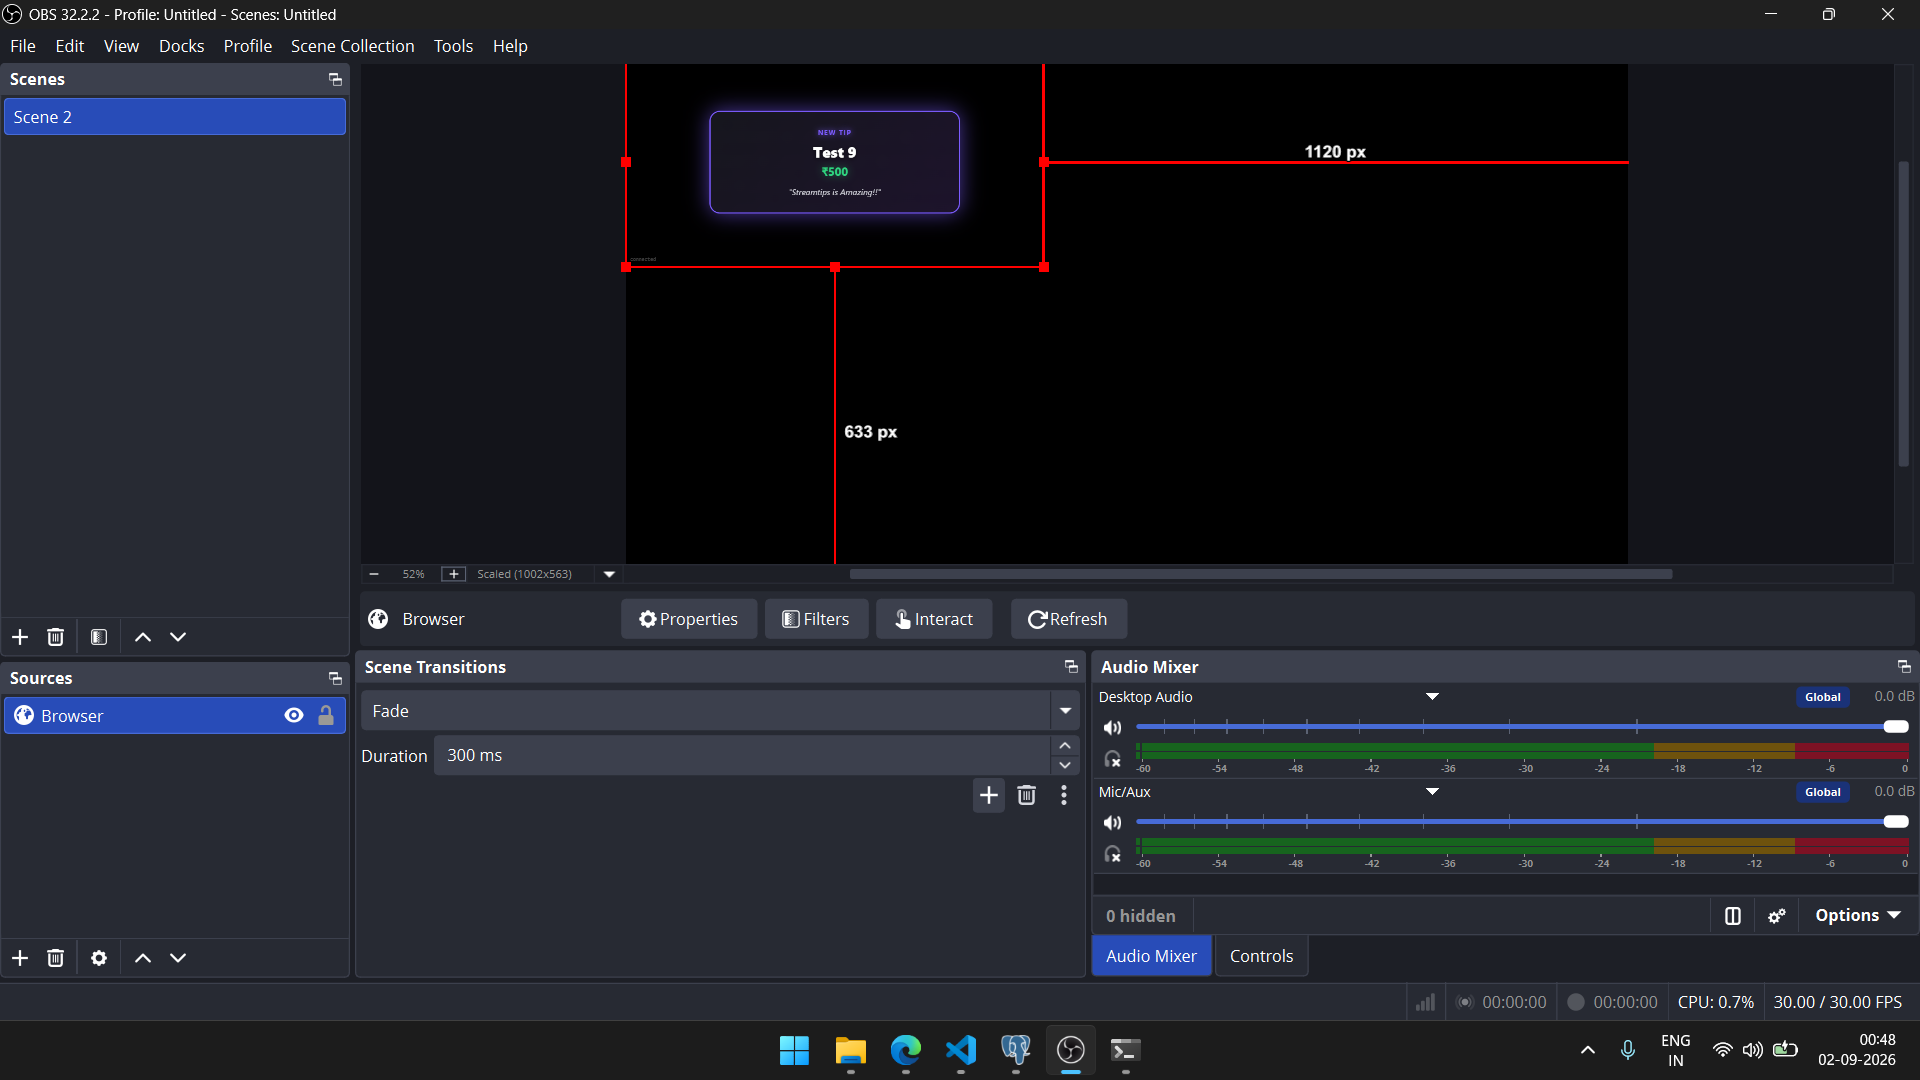
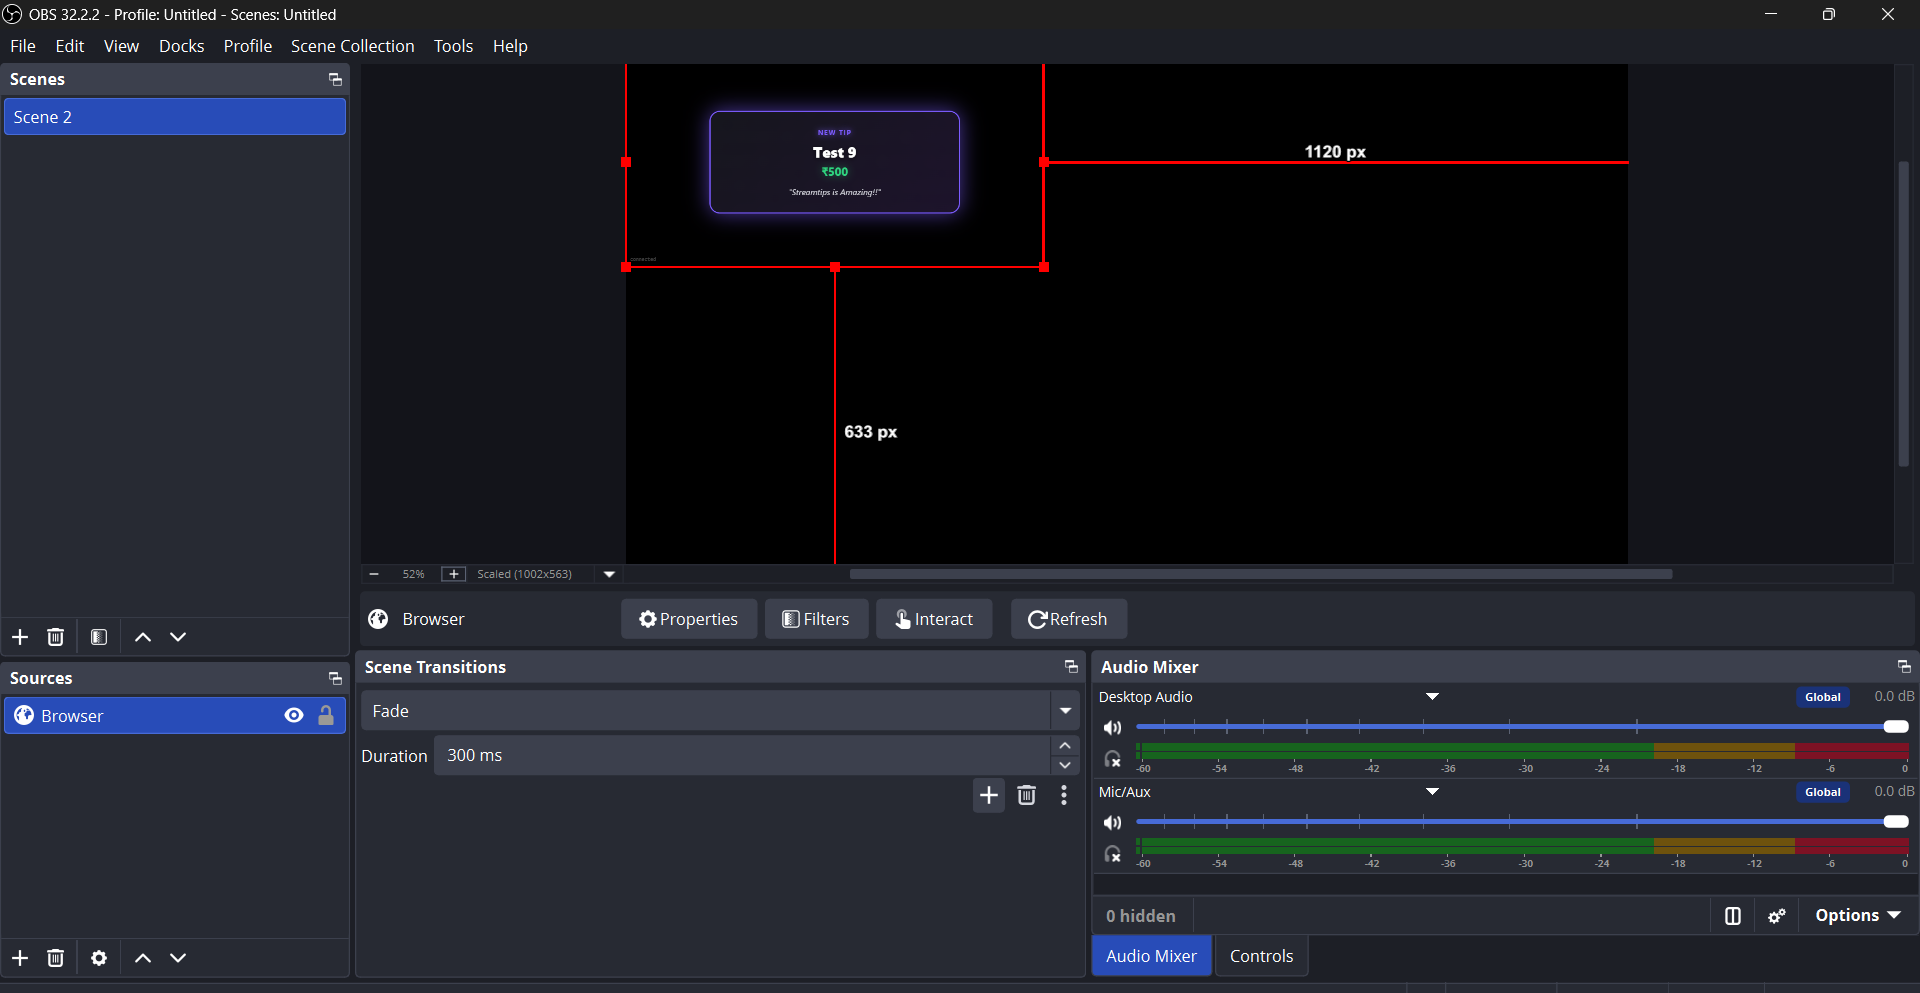
refactor: clean up code

diff --git a/app/routers/webhooks.py b/app/routers/webhooks.py
@@ -1,4 +1,5 @@
 import logging
+from typing import Any
 
 from fastapi import APIRouter, Depends, Request, HTTPException, status
 from sqlalchemy.exc import IntegrityError
@@ -13,22 +14,24 @@ logger = logging.getLogger("streamtips.webhooks")
 
 router = APIRouter(prefix="/webhooks", tags=["webhooks"])
 
+PAYMENT_CAPTURED = "payment.captured"
+
 
 @router.post("/razorpay", status_code=status.HTTP_200_OK)
-async def razorpay_webhook(request: Request, db: Session = Depends(get_db)):
+async def razorpay_webhook(request: Request, db: Session = Depends(get_db)) -> dict:
     """
-    This endpoint is the ONLY place a tip can move from 'pending' to
-    'success'. Nothing the client says anywhere else in the API can do
-    that — see POST /tips, which only ever creates 'pending' rows.
+    The only endpoint that can move a tip from 'pending' to 'success'.
+    POST /tips never does this — it only ever creates 'pending' rows.
 
-    Order of operations matters here:
-      1. Read raw bytes (signature is computed over the exact raw body —
-         parsing to JSON first and re-serializing would break verification
-         if key order or whitespace differs even slightly).
-      2. Verify signature BEFORE trusting any content of the payload.
-      3. Check idempotency (has this event_id been processed before)
-         via a DB unique constraint, not just an in-memory/app check.
-      4. Only then touch the tip row.
+    Order of operations is deliberate:
+      1. Read the raw request body and verify its HMAC-SHA256 signature
+         before trusting any content. Signing covers the exact raw
+         bytes, so parsing to JSON first and re-serializing later could
+         silently break verification.
+      2. Enforce idempotency via a DB unique constraint on event_id,
+         not an in-memory or purely application-level check, so it
+         holds up under concurrent duplicate deliveries.
+      3. Only then update the tip and broadcast to the overlay.
     """
     raw_body = await request.body()
     signature = request.headers.get("X-Razorpay-Signature")
@@ -45,37 +48,22 @@ async def razorpay_webhook(request: Request, db: Session = Depends(get_db)):
     event_type = payload.get("event", "unknown")
 
     if not event_id:
-        # Razorpay always sends one of these; if truly absent, reject rather
-        # than silently process an event we can't dedupe.
+        # Razorpay always sends one of these; if it's genuinely absent,
+        # reject rather than silently process an event we can't dedupe.
         raise HTTPException(
             status_code=status.HTTP_400_BAD_REQUEST,
             detail="Missing event id",
         )
 
-    # --- Idempotency gate ---
-    # Try to insert the event row first. The unique constraint on
-    # event_id is the actual guarantee here: even under concurrent
-    # duplicate deliveries (Razorpay does retry webhooks), only one
-    # request can win this insert. The other gets IntegrityError and
-    # we treat it as "already handled" — no tip mutation happens twice.
-    event_row = WebhookEvent(event_id=event_id, event_type=event_type, processed=False)
-    db.add(event_row)
-    try:
-        db.flush()
-    except IntegrityError:
-        db.rollback()
+    if not _record_event_once(db, event_id, event_type):
         logger.info(f"Duplicate webhook event ignored: {event_id}")
         return {"status": "already_processed"}
 
-    # Only handle the event type we actually care about for V1.
-    if event_type != "payment.captured":
-        db.commit()  # still record we saw it, just nothing to do
+    if event_type != PAYMENT_CAPTURED:
+        db.commit()  # event recorded, nothing further to do for this type
         return {"status": "ignored", "event_type": event_type}
 
-    payment_entity = payload.get("payload", {}).get("payment", {}).get("entity", {})
-    order_id = payment_entity.get("order_id")
-    payment_id = payment_entity.get("id")
-
+    order_id, payment_id = _extract_payment_ids(payload)
     if not order_id or not payment_id:
         db.rollback()
         raise HTTPException(
@@ -85,41 +73,71 @@ async def razorpay_webhook(request: Request, db: Session = Depends(get_db)):
 
     tip = db.query(Tip).filter(Tip.payment_order_id == order_id).first()
     if tip is None:
-        # Event references an order we have no record of. Log and store
-        # the webhook_event as processed=False evidence, but don't error
-        # loudly back to Razorpay — 200 so it doesn't retry forever.
+        # Unknown order — log and acknowledge with 200 so Razorpay
+        # doesn't retry indefinitely for an order we'll never find.
         logger.error(f"Webhook for unknown order_id: {order_id}")
         db.commit()
         return {"status": "unknown_order"}
 
     if tip.status == TipStatus.success:
-        # Belt-and-suspenders: even if somehow two different event_ids
-        # referenced the same order, don't double-apply success.
-        event_row.processed = True
+        # Defense in depth: even if two different event_ids somehow
+        # referenced the same order, never re-apply success.
         db.commit()
         return {"status": "already_success"}
 
     tip.status = TipStatus.success
     tip.payment_id = payment_id
-    event_row.processed = True
+    db.query(WebhookEvent).filter(WebhookEvent.event_id == event_id).update({"processed": True})
     db.commit()
 
-    # Broadcast to the OBS overlay, if one is currently connected.
-    # Deliberately happens AFTER commit — the DB write is the source of
-    # truth regardless of whether anyone was watching live. If the
-    # overlay was offline, the tip is still recorded as successful;
-    # it just won't show a live alert. No retry/queue for missed
-    # alerts in V1 — that's an acceptable, documented scope cut.
-    creator = db.query(User).filter(User.id == tip.user_id).first()
-    if creator:
-        await manager.send_to_overlay(
-            creator.overlay_token,
-            {
-                "type": "TIP",
-                "name": tip.payer_name,
-                "amount": float(tip.amount),
-                "message": tip.message,
-            },
-        )
+    await _broadcast_tip(db, tip)
 
     return {"status": "processed", "tip_id": str(tip.id)}
+
+
+def _record_event_once(db: Session, event_id: str, event_type: str) -> bool:
+    """
+    Attempts to insert a WebhookEvent row with processed=False. Returns
+    False if event_id already exists (duplicate delivery), True if this
+    is the first time we've seen it. The unique constraint on event_id
+    is what makes this safe under concurrent requests, not this
+    function alone. Callers should flip `processed` to True once the
+    event has actually been acted on.
+    """
+    db.add(WebhookEvent(event_id=event_id, event_type=event_type, processed=False))
+    try:
+        db.flush()
+        return True
+    except IntegrityError:
+        db.rollback()
+        return False
+
+
+def _extract_payment_ids(payload: dict[str, Any]) -> tuple[str | None, str | None]:
+    """Pulls order_id and payment_id out of a Razorpay payment.captured payload."""
+    entity = payload.get("payload", {}).get("payment", {}).get("entity", {})
+    return entity.get("order_id"), entity.get("id")
+
+
+async def _broadcast_tip(db: Session, tip: Tip) -> None:
+    """
+    Pushes the tip to the creator's OBS overlay over WebSocket, if one
+    is currently connected. Runs after the DB commit — the database is
+    the source of truth regardless of whether anyone was watching live.
+    A tip made while the overlay is offline is still recorded as
+    successful; it just won't produce a live alert. There's no
+    retry/queue for missed alerts in V1 — an accepted, documented cut.
+    """
+    creator = db.query(User).filter(User.id == tip.user_id).first()
+    if creator is None:
+        return
+
+    await manager.send_to_overlay(
+        creator.overlay_token,
+        {
+            "type": "TIP",
+            "name": tip.payer_name,
+            "amount": float(tip.amount),
+            "message": tip.message,
+        },
+    )

diff --git a/app/core/config.py b/app/core/config.py
@@ -10,7 +10,7 @@ class Settings(BaseSettings):
     JWT_ALGORITHM: str = "HS256"
     JWT_EXPIRE_MINUTES: int = 60 * 24 * 7  # 7 days
 
-    # Razorpay (Day 2)
+    # Razorpay
     RAZORPAY_KEY_ID: str = ""
     RAZORPAY_KEY_SECRET: str = ""
     RAZORPAY_WEBHOOK_SECRET: str = ""

diff --git a/app/core/database.py b/app/core/database.py
@@ -10,7 +10,6 @@ Base = declarative_base()
 
 
 def get_db():
-    """FastAPI dependency — yields a DB session and always closes it."""
     db = SessionLocal()
     try:
         yield db

diff --git a/README.md b/README.md
@@ -1,44 +1,75 @@
 # StreamTips
 
-A real-time tipping platform for livestreamers. A viewer pays through Razorpay, the payment is confirmed by a signature-verified webhook, and an animated alert appears live inside the creator's OBS stream within seconds.
+Real-time tipping platform for livestreamers. A viewer pays via Razorpay; once payment is confirmed by a signature-verified webhook, an alert renders live inside the creator's OBS stream.
 
-![StreamTips alert live in OBS](docs/obs-demo.png)
+## Demo
 
-## How it works
+Tip page and live OBS overlay, side by side:
 
+<p float="left">
+  <img src="docs/tip-page.png" width="46%" />
+  <img src="docs/obs-demo.png" width="50%" />
+</p>
+
+## Architecture
+
+```text
+Viewer
+  │
+  │ POST /tips
+  ▼
+FastAPI ───────────────► Razorpay
+  │                         │
+  │ tip: pending             │ payment.captured
+  │                         ▼
+  │ ◄──────────── signed webhook (raw body + HMAC-SHA256)
+  │
+  ├── verify signature
+  ├── insert event_id (unique constraint → idempotency)
+  ├── tip: pending → success
+  │
+  └──────── WebSocket ─────► OBS Browser Source
+                              (subscribed via overlay_token)
 ```
-Creator signs up (JWT) → gets a public tip page and a private OBS overlay link
 
-Viewer opens the tip page → enters name, message, amount → pays via Razorpay
-        │
-        ▼
-Razorpay confirms payment → sends a signed webhook event
-        │
-        ▼
-Backend verifies the HMAC-SHA256 signature on the raw request body
-        │
-        ▼
-Checks the event hasn't been processed before (DB-enforced idempotency)
-        │
-        ▼
-Tip status flips from "pending" to "success" in PostgreSQL
-        │
-        ▼
-Event is pushed over WebSocket to the creator's connected OBS overlay
-        │
-        ▼
-🎉 Alert renders live on stream
-```
-
-**The core design decision:** a tip can only ever be marked successful by a verified webhook event — never by the client. `POST /tips` only ever creates a `pending` row. This closes the obvious attack of a viewer calling the API directly to fake a large donation without paying.
+**Design constraint:** the client can initiate a payment but cannot declare it successful. `POST /tips` only ever writes a `pending` row. The `pending → success` transition happens in exactly one place — the webhook handler, after signature verification — so there is no client-reachable path to fabricate a paid tip.
 
 ## Stack
 
-- **Backend:** FastAPI, PostgreSQL, SQLAlchemy, Alembic
-- **Auth:** JWT + bcrypt
-- **Payments:** Razorpay (order creation, signed webhooks)
-- **Real-time:** native FastAPI WebSockets
-- **Overlay:** plain HTML/CSS/JS, rendered as an OBS Browser Source
+| Layer | Choice |
+|---|---|
+| API | FastAPI, Pydantic |
+| Database | PostgreSQL, SQLAlchemy, Alembic |
+| Auth | JWT, bcrypt |
+| Payments | Razorpay Orders API + HMAC-SHA256 webhook verification |
+| Real-time | Native WebSockets (single-process, in-memory connection registry) |
+| Overlay | HTML/CSS/JS served as an OBS Browser Source |
+
+## API surface
+
+| Method | Path | Auth | Purpose |
+|---|---|---|---|
+| POST | `/auth/signup` | — | Create creator account, returns JWT |
+| POST | `/auth/login` | — | Issue JWT |
+| GET / PATCH | `/users/me` | JWT | Read/update own profile |
+| GET | `/users/me/overlay` | JWT | Fetch private `overlay_token` |
+| GET | `/creators/{username}` | — | Public creator lookup (tip page) |
+| POST | `/tips` | — | Create Razorpay order + `pending` tip |
+| POST | `/webhooks/razorpay` | signature | Verify payment, flip tip to `success`, broadcast |
+| WS | `/ws/overlay/{overlay_token}` | token | OBS overlay subscribes to tip events |
+
+## Security
+
+| Risk | Mitigation |
+|---|---|
+| Client-forged payment success | Only the webhook handler can set `status = success`; verified via HMAC-SHA256 against the raw request body |
+| Duplicate webhook delivery | Unique constraint on `webhook_events.event_id` — a second insert fails at the database level, not just in application logic |
+| Overlay URL guessing | 64-character random `overlay_token`, independent of username/id, validated before the WebSocket connection is accepted |
+| XSS via tip message | Viewer-submitted `payer_name` / `message` are HTML-escaped before being rendered in the overlay |
+| Login user enumeration | Identical error/status for unknown email vs. wrong password |
+| OBS disconnect mid-stream | Overlay retries the WebSocket connection on a fixed delay, no manual refresh required |
+
+Idempotency, signature verification, reconnection, and the forged-payment path have each been manually tested, including duplicate webhook resends and concurrent tip submissions.
 
 ## Setup
 
@@ -48,9 +79,9 @@ source venv/bin/activate
 pip install -r requirements.txt
 
 cp .env.example .env
-# fill in DATABASE_URL, JWT_SECRET_KEY, RAZORPAY_KEY_ID, RAZORPAY_KEY_SECRET
+# set DATABASE_URL, JWT_SECRET_KEY, RAZORPAY_KEY_ID, RAZORPAY_KEY_SECRET
 
-# create the database first: CREATE DATABASE streamtips;
+# CREATE DATABASE streamtips;  (in psql)
 alembic upgrade head
 
 uvicorn app.main:app --reload
@@ -58,66 +89,30 @@ uvicorn app.main:app --reload
 
 API docs: `http://localhost:8000/docs`
 
-### Testing the full flow
+### End-to-end test
 
-1. Sign up a creator via `/docs` (`POST /auth/signup`).
-2. Open `frontend/tip.html?creator=<username>` and send a test tip (use [Razorpay's test card numbers](https://razorpay.com/docs/payments/payments/test-card-upi-details/)).
-3. Since Razorpay can't reach `localhost` directly, tunnel your server with `ngrok http 8000` and register `https://<ngrok-url>/webhooks/razorpay` in the Razorpay Dashboard under Webhooks (event: `payment.captured`).
-4. Get your overlay token from `GET /users/me/overlay`, open `frontend/overlay.html?token=<token>` as an OBS Browser Source (or in a plain browser tab to preview), and watch the alert fire when the webhook lands.
-
-## Security & reliability
-
-| Concern | How it's handled |
-|---|---|
-| Faking a successful payment | Only the signature-verified webhook can set a tip to `success` — no client-reachable endpoint does |
-| Duplicate webhook delivery | Unique DB constraint on `webhook_events.event_id`; a duplicate insert fails and is ignored |
-| Tampered webhook payload | HMAC-SHA256 signature checked against the raw request body before anything is trusted |
-| Guessing another creator's overlay | 64-char random `overlay_token`, unrelated to username/id, validated before the WebSocket connection is even accepted |
-| XSS via tip messages | Viewer-submitted text is HTML-escaped before being rendered in the overlay |
-| OBS disconnecting mid-stream | Overlay auto-reconnects on a fixed retry delay, no manual refresh needed |
-
-All of the above were manually tested, including duplicate-webhook resends, concurrent tips, invalid input, and direct attempts to bypass payment verification.
+1. `POST /auth/signup` via `/docs` to create a creator.
+2. Open `frontend/tip.html?creator=<username>`, submit a tip using [Razorpay's test card numbers](https://razorpay.com/docs/payments/payments/test-card-upi-details/).
+3. Razorpay cannot reach `localhost` directly — tunnel with `ngrok http 8000` and register `https://<ngrok-url>/webhooks/razorpay` under Razorpay Dashboard → Webhooks (event: `payment.captured`).
+4. Fetch `overlay_token` from `GET /users/me/overlay`, open `frontend/overlay.html?token=<token>` as an OBS Browser Source, and confirm the alert renders when the webhook is processed.
 
 ## Scope
 
-**In V1:** JWT auth, creator profiles, Razorpay order + webhook + idempotency, real-time WebSocket alerts, secure OBS overlay tokens.
+**Implemented:** JWT auth, creator profiles, Razorpay order creation, webhook verification + idempotency, WebSocket delivery, OBS overlay with reconnection.
 
-**Deliberately out of V1:** Redis (no horizontal scaling needed yet), TTS, leaderboards, donation goals, custom themes/sounds, third-party stream integrations. See the code comments in `app/services/connection_manager.py` for the reasoning on the Redis cut specifically.
+**Deliberately excluded:** Redis (no multi-instance WebSocket fan-out required at current scale — see comments in `app/services/connection_manager.py`), TTS, leaderboards, donation goals, custom themes, third-party stream-platform integrations, cloud deployment.
 
 ## Project structure
 
 ```
 app/
-├── core/         # config, database, security, auth dependency
+├── core/         # config, database session, JWT/password hashing, auth dependency
 ├── models/       # users, tips, webhook_events
-├── schemas/      # request/response validation
+├── schemas/      # Pydantic request/response models
 ├── routers/      # auth, users, public, tips, webhooks, websocket
-└── services/     # razorpay client, websocket connection manager
+└── services/     # Razorpay client, WebSocket connection manager
 frontend/
-├── tip.html      # public viewer-facing tip page
+├── tip.html      # viewer-facing tip page
 ├── overlay.html  # OBS Browser Source overlay
 └── ws_test.html  # plain-text WebSocket debug page
 ```
-
-## Development notes
-
-Built day-by-day, each stage tested before moving to the next:
-
-| Day | Focus |
-|---|---|
-| 1 | DB schema, JWT auth, creator profile CRUD |
-| 2 | Razorpay order creation, tip page |
-| 3 | Webhook signature verification + idempotency |
-| 4 | WebSocket server + connection handling |
-| 5 | OBS overlay page (animation, reconnect, alert queueing) |
-| 6 | Hardening — duplicate webhooks, invalid input, XSS, concurrency, attack simulation |
-
-Cloud deployment was deliberately skipped in favor of a reliable local demo.
-
----
-
-### Demo
-
-The screenshot below shows a live tip alert rendering inside OBS via the Browser Source overlay:
-
-![OBS Browser Source showing a live StreamTips alert](docs/obs-demo.png)
